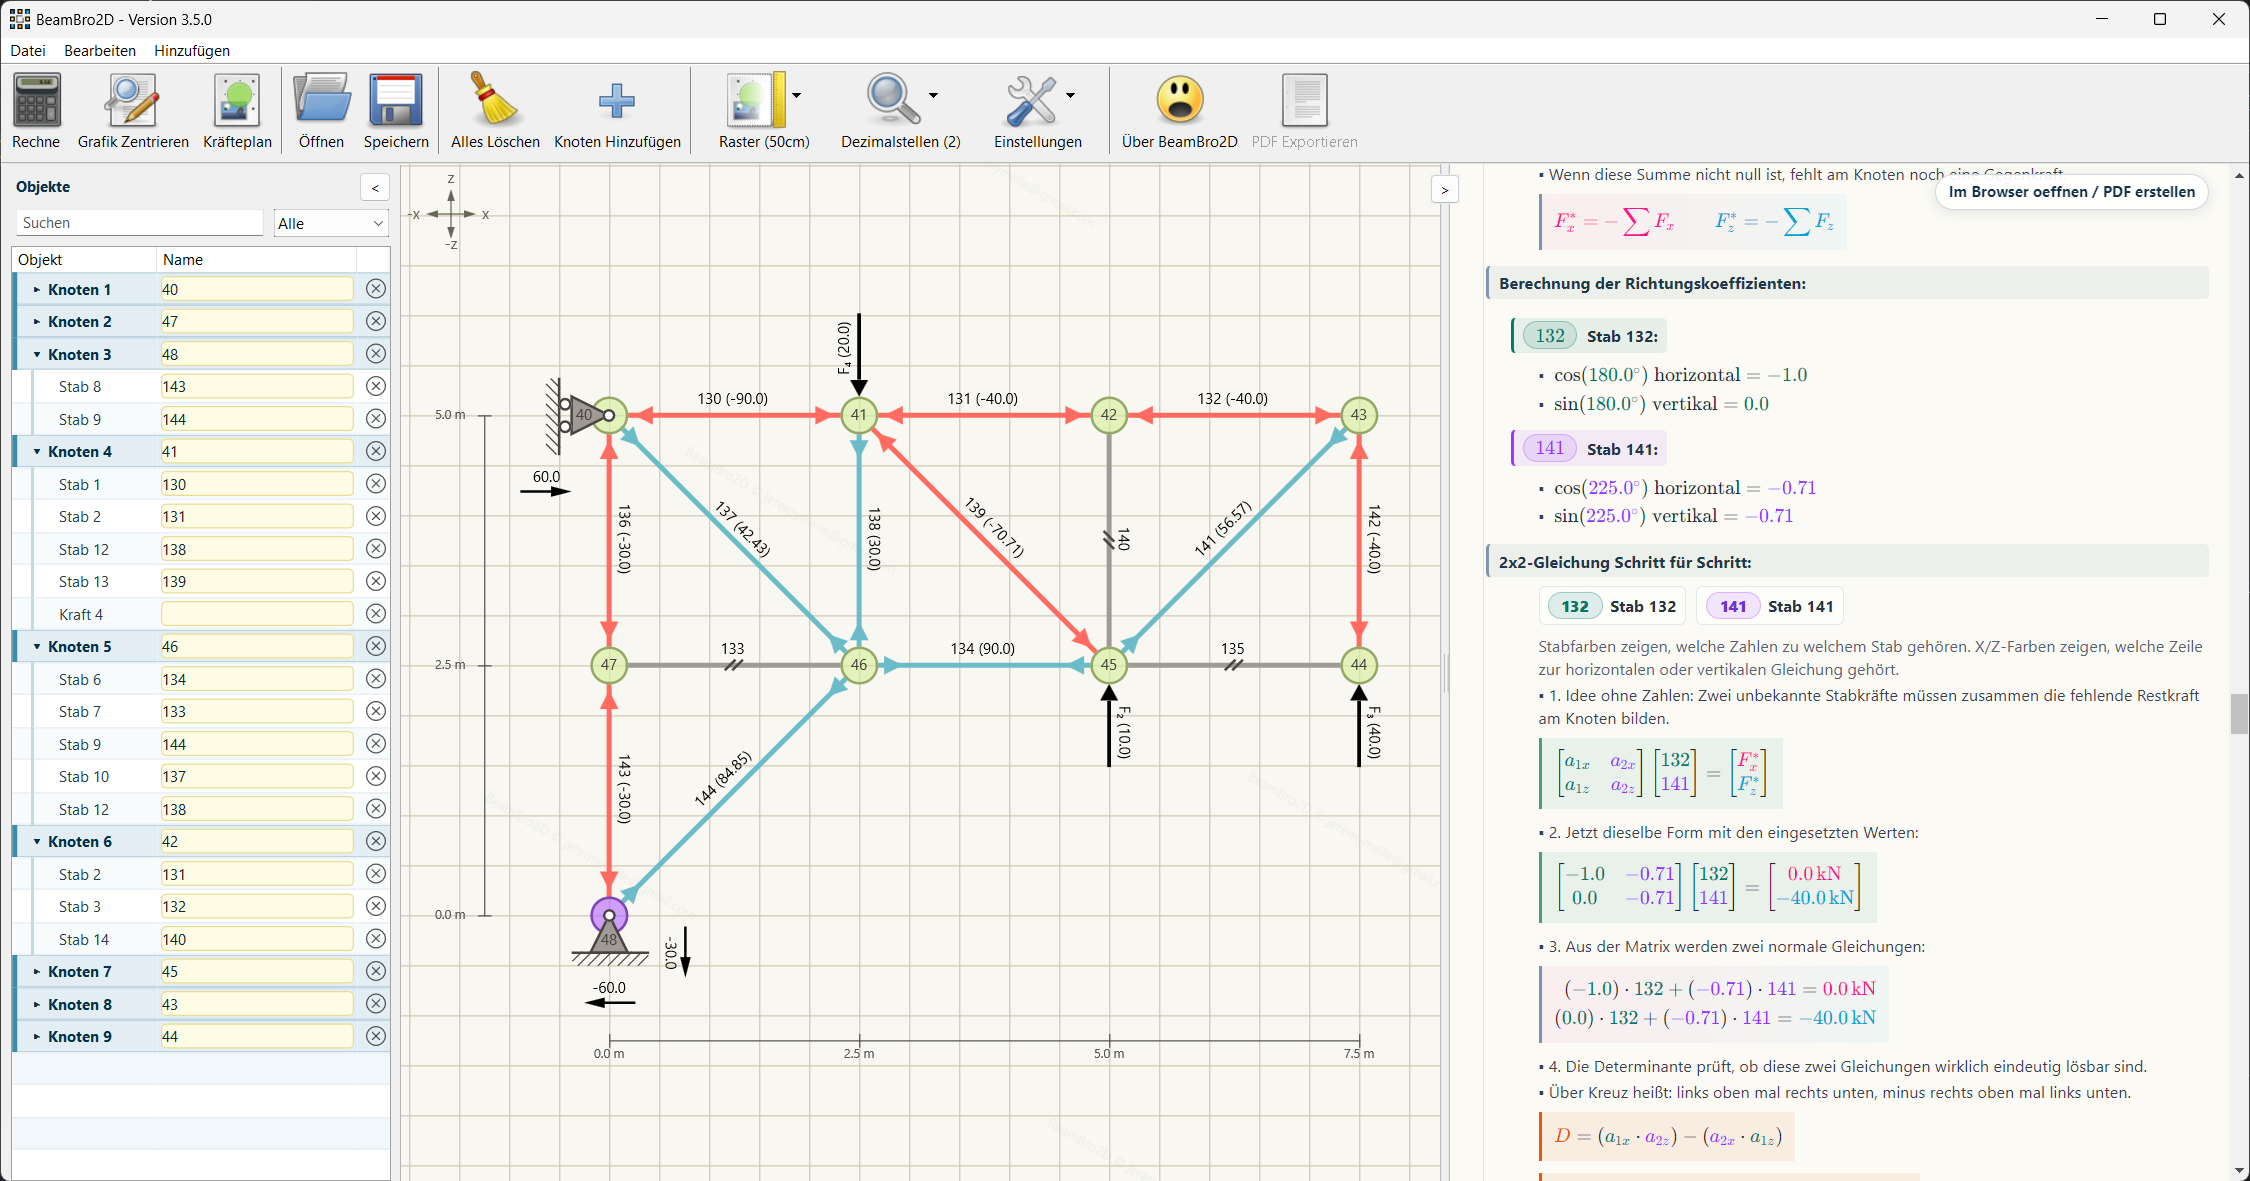
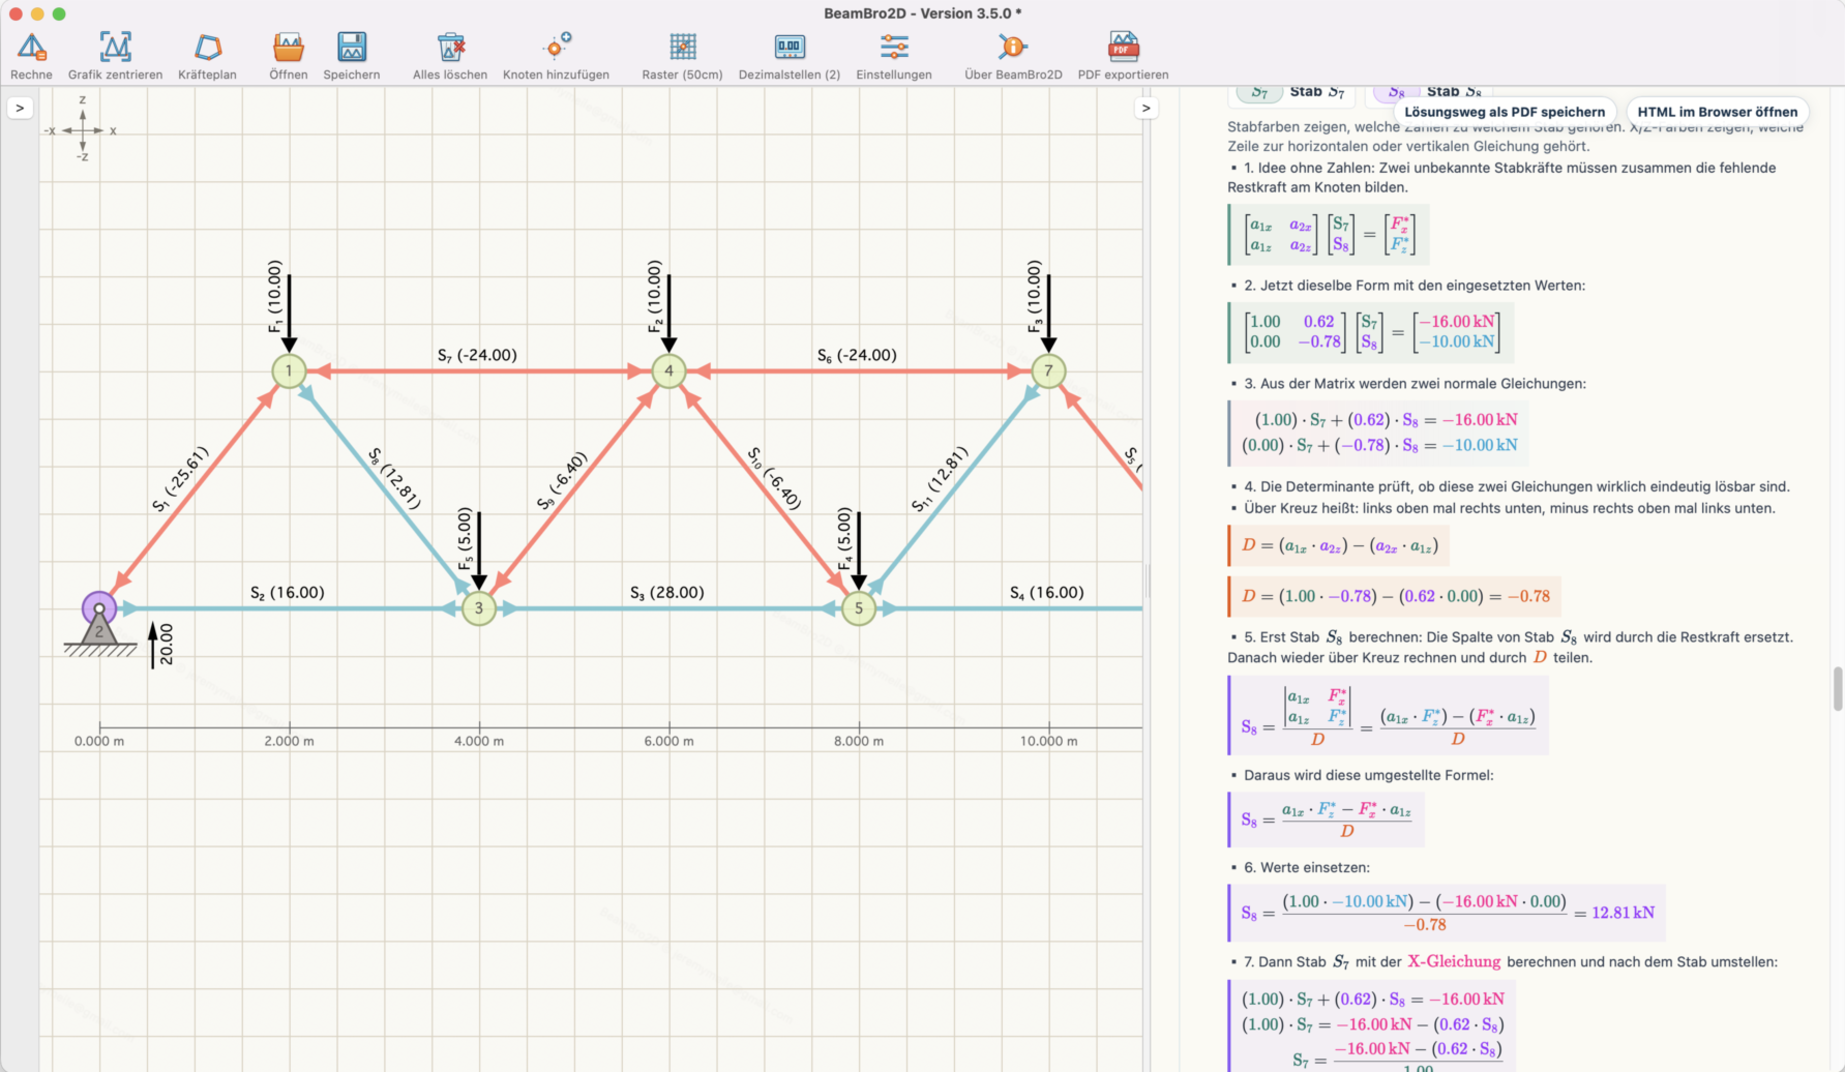
Update BeamSmith, BeamBro2D and Erdinator releases

diff --git a/index.html b/index.html
@@ -959,8 +959,8 @@
     </div>
 
     <script>
-        const csvFilePath = 'downloads.csv?v=2026-08-05-remove-old-apps';
-        const detailsFilePath = 'details.json?v=2026-08-05-remove-old-apps';
+        const csvFilePath = 'downloads.csv?v=2026-08-09-app-updates';
+        const detailsFilePath = 'details.json?v=2026-08-09-app-updates';
         const countApiEndpoint = 'https://countapi.maayanlab.cloud/rpc';
         const countApiPrefix = 'oroxzy.github.io-global-downloads';
         const downloadList = document.getElementById('download-list');
